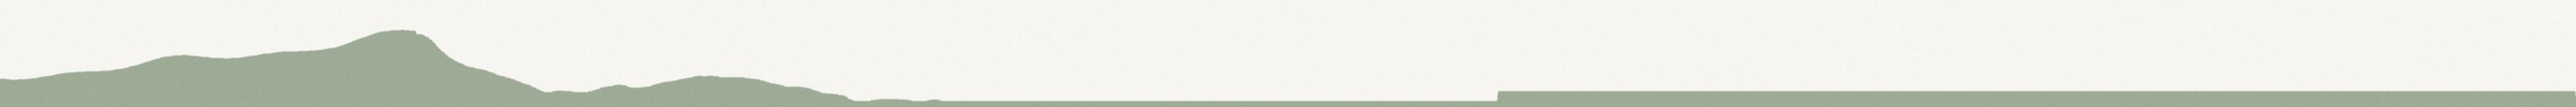
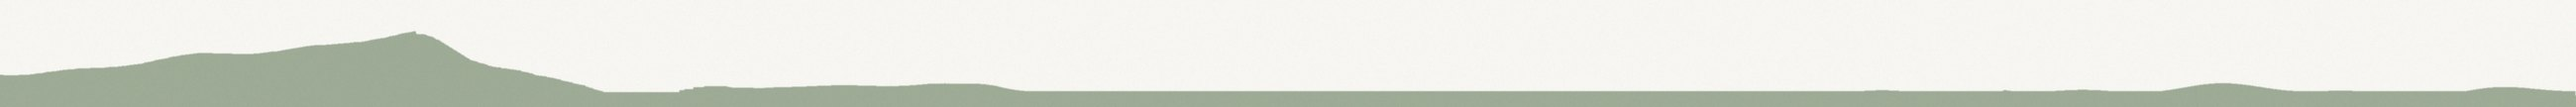
Keep the Diablo descent under the wordmark, no valley
Stretch the east face so it falls gradually through the title and does
not climb again under the letters. Peak stays in the triangle; type stays
in pale sky above the lower slopes at every width.

diff --git a/app/page.tsx b/app/page.tsx
@@ -73,7 +73,7 @@ export default function Home() {
         <div className="pulse-home-ridge__scene" aria-hidden="true">
           <div className="pulse-home-ridge__align max-w-7xl mx-auto px-4 sm:px-6 lg:px-8">
             <img
-              src="/pulse-ridge.jpg?v=diablo-2"
+              src="/pulse-ridge.jpg?v=diablo-3"
               alt=""
               width={2600}
               height={108}
